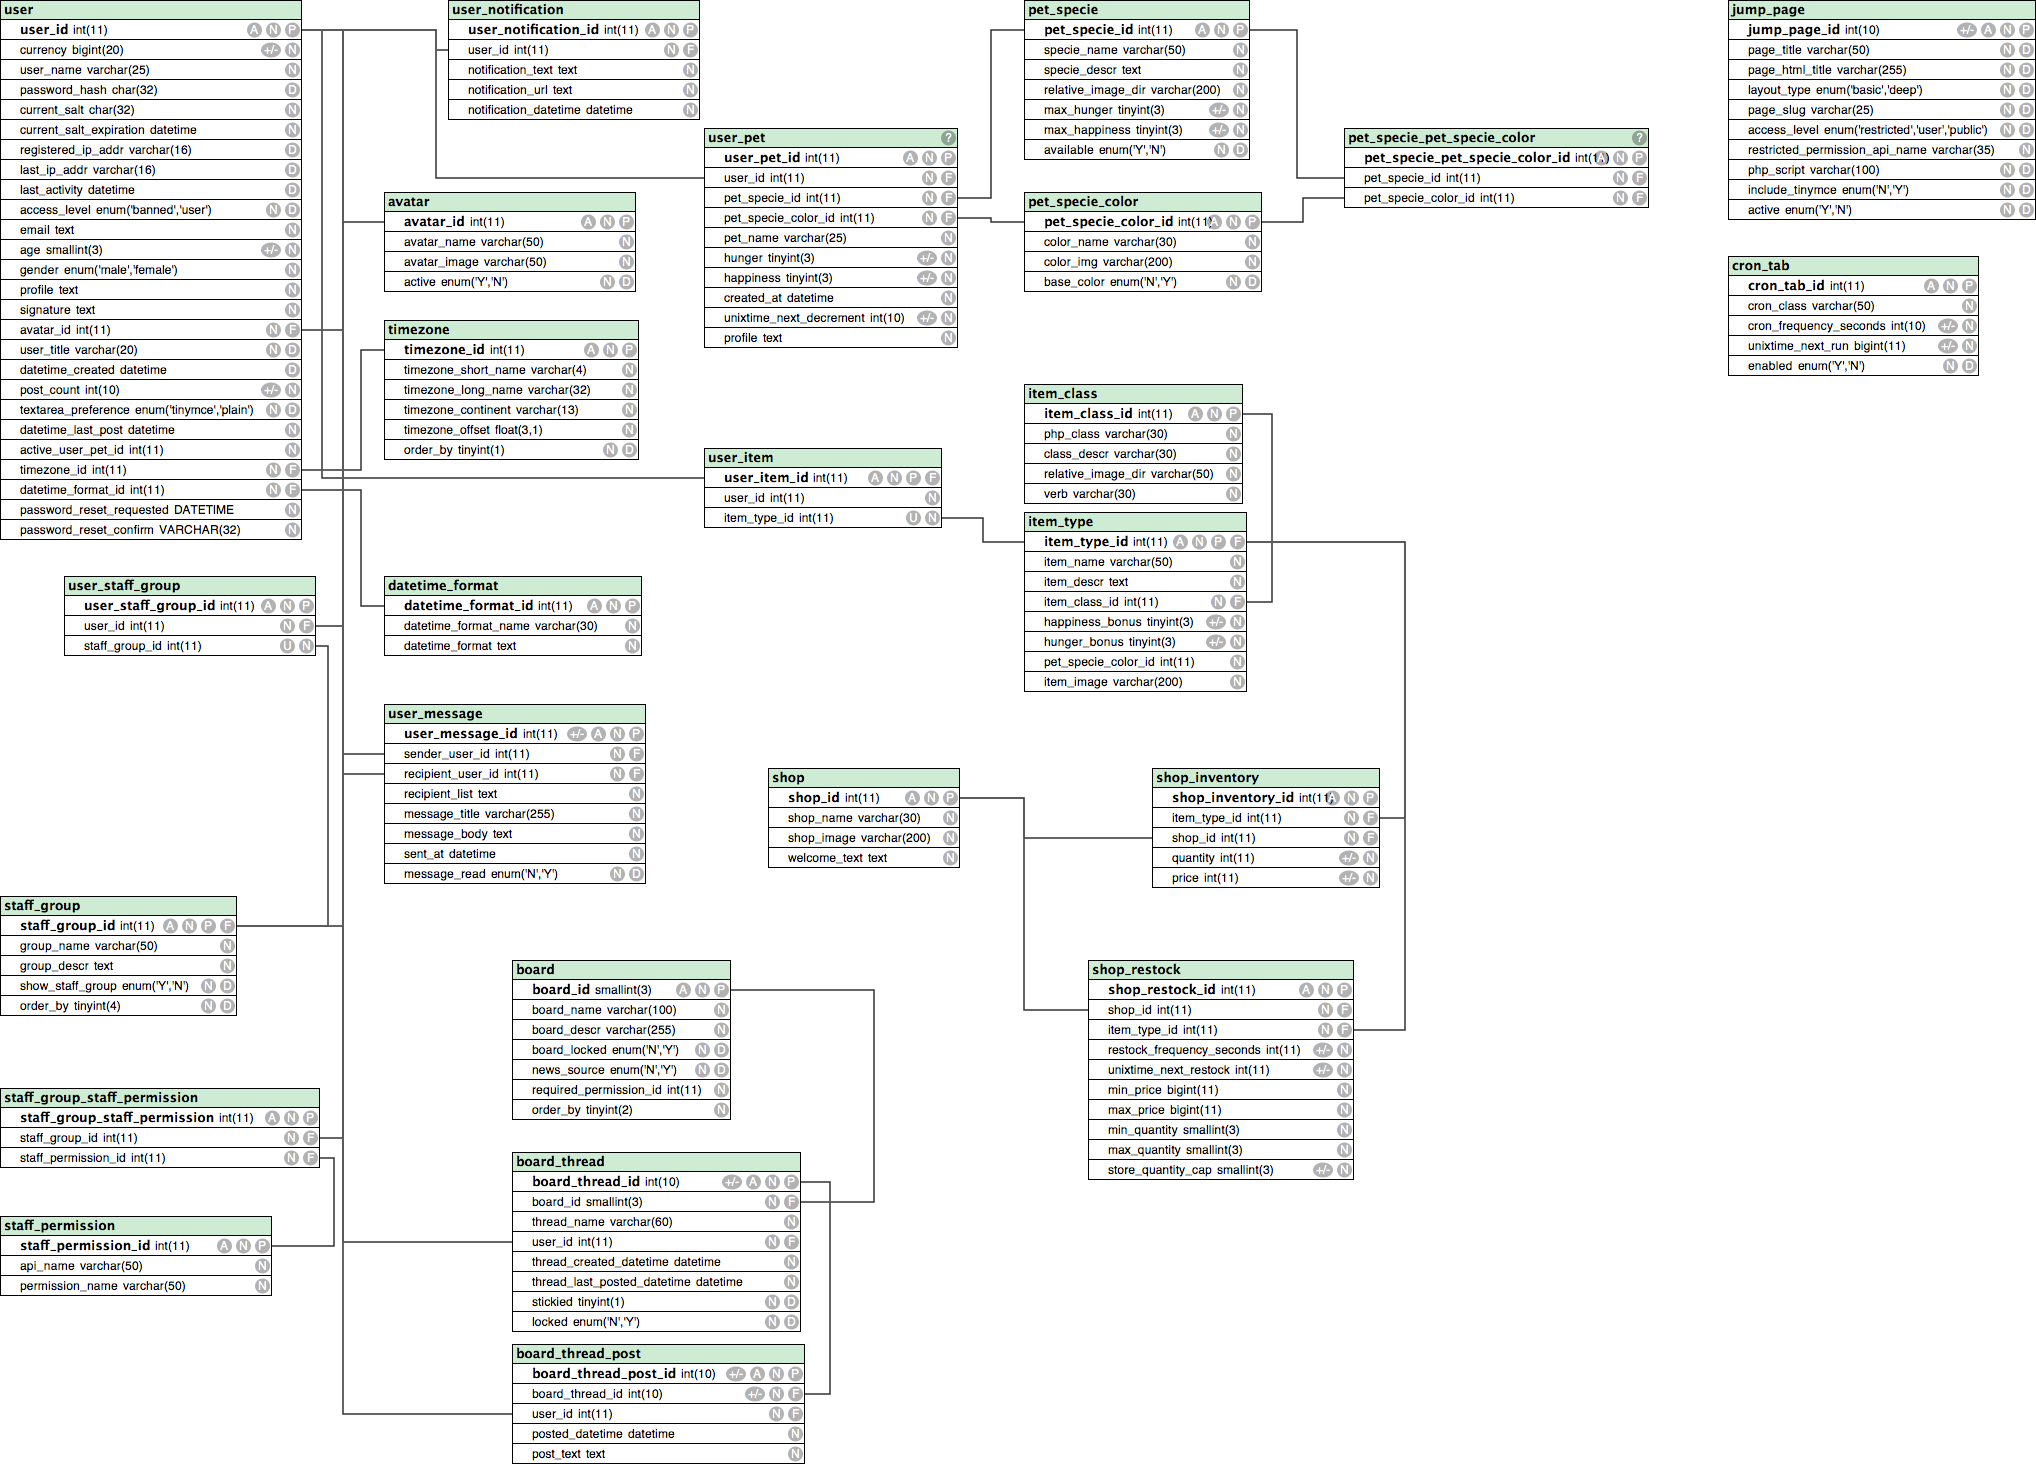
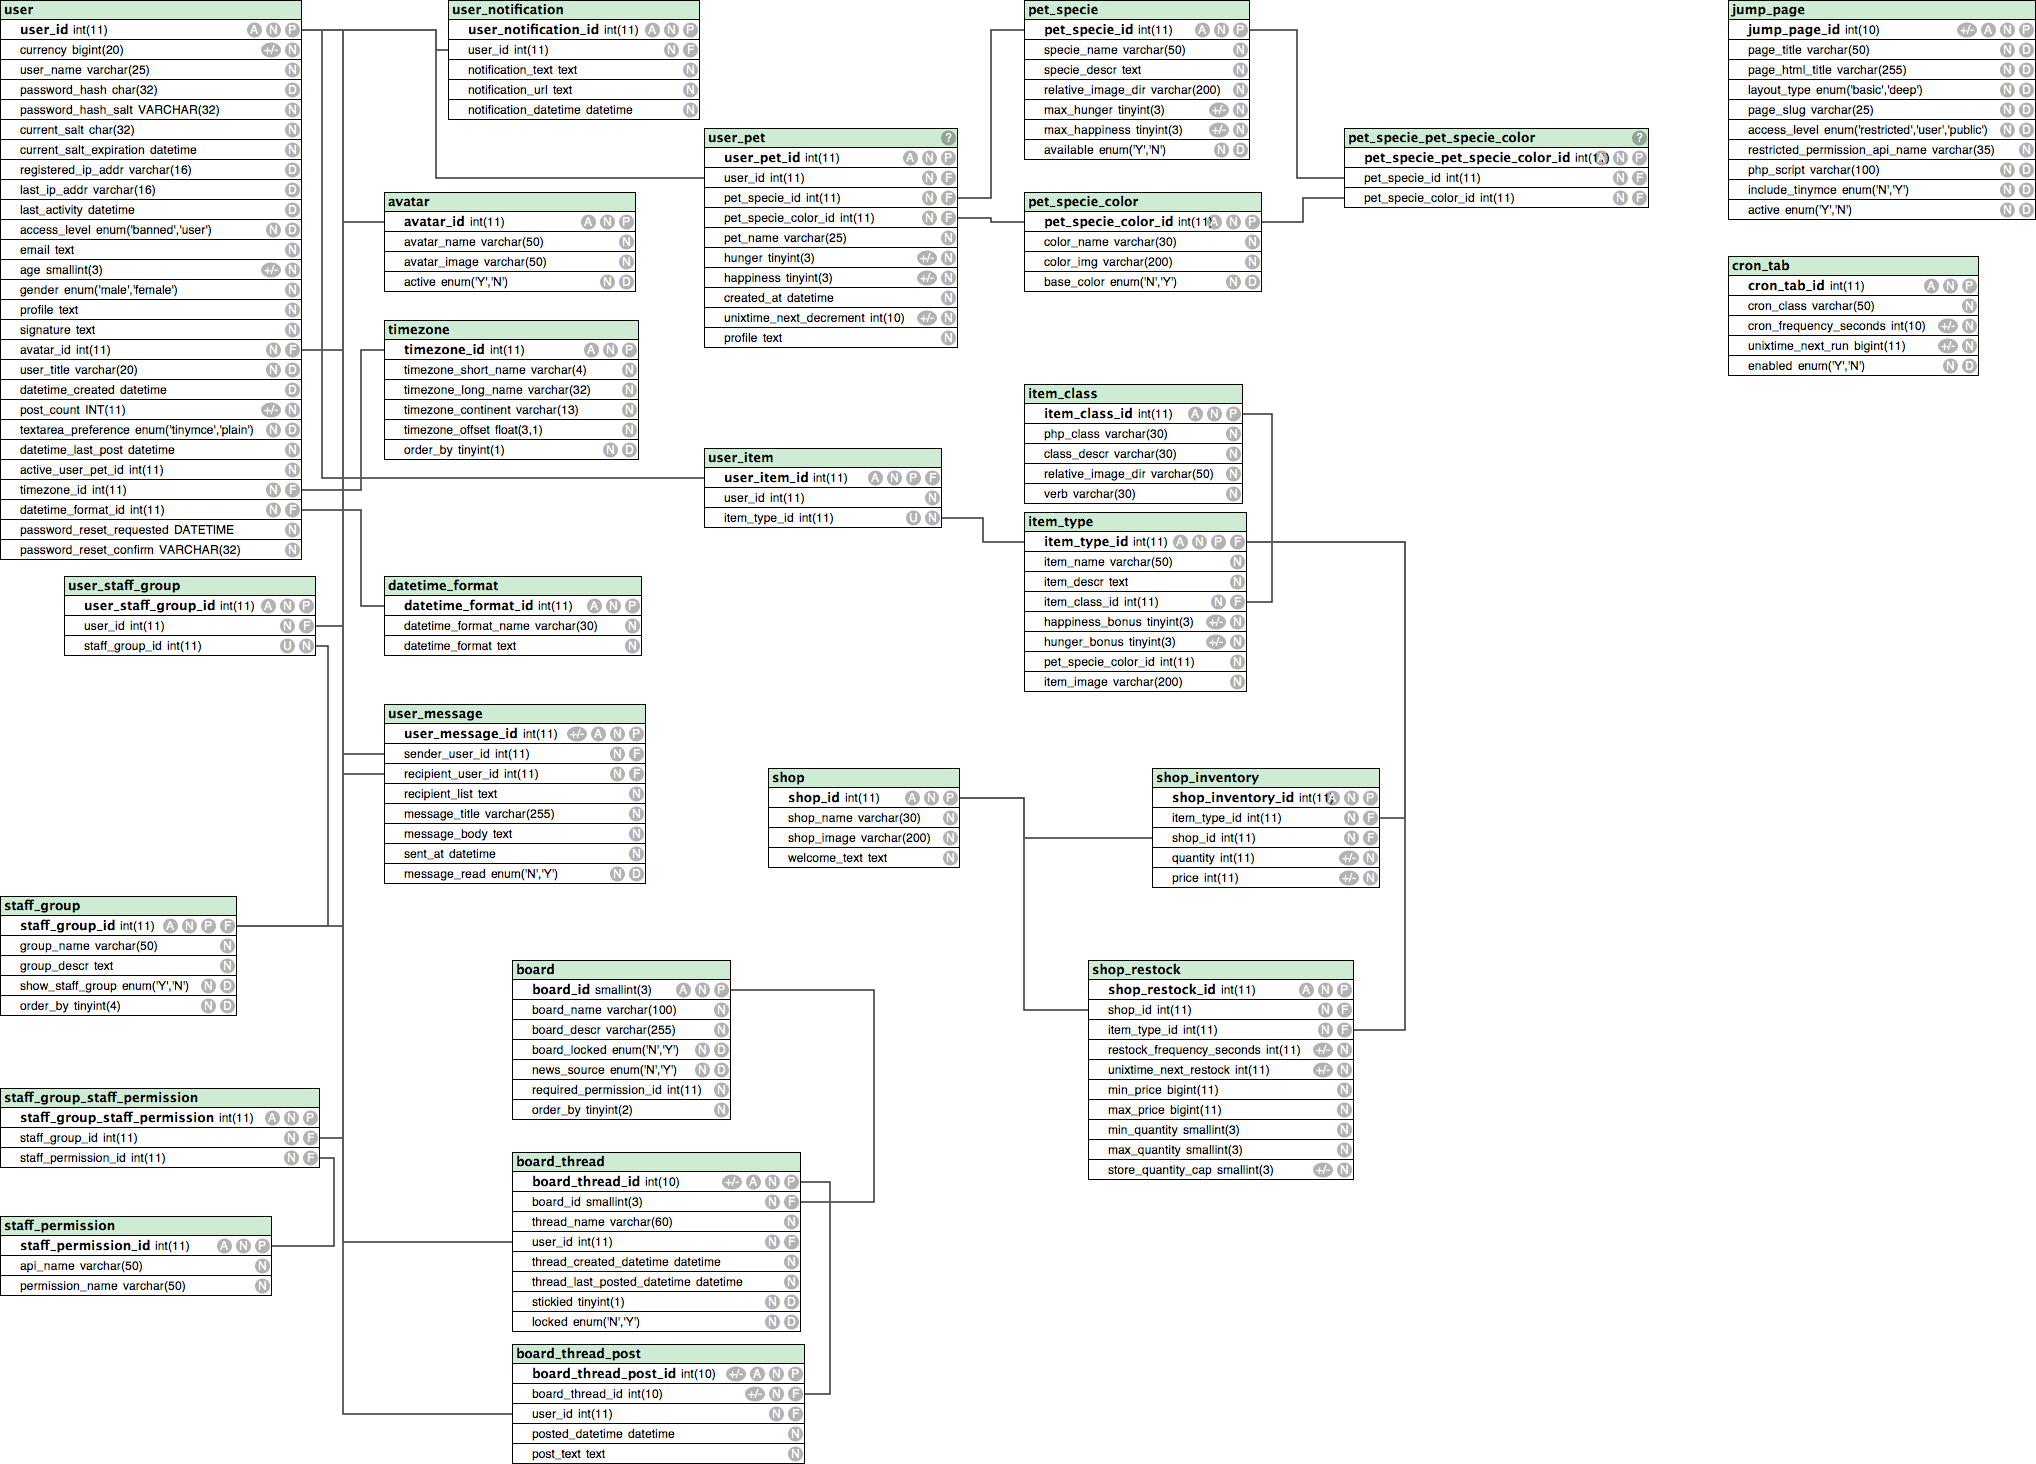
* Minor fixes

Changed region(s): [[0.0, 0.0615, 0.1547, 0.3996], [0.1238, 0.1537, 0.1547, 0.1844]]

diff --git a/includes/classes/user/user.class.php b/includes/classes/user/user.class.php
@@ -119,25 +119,21 @@ class User extends ActiveTable
 	 * The plaintext password is automagically converted to the
 	 * appropriate format and stored. The plaintext is discarded
 	 * when this function completes.
+     *
+     * The password hash is built using a random salt + the plaintext.
+     * The salt is the md5 of random data + the current time + a string 
+     * that (hopefully) has *at least* one symbol that wasn't factored 
+     * into a rainbow table.
      * 
      * @param string $password 
      * @return void
      **/
 	public function setPassword($password)
 	{
-        /*
-		* Doing this twice makes the passwords a mite harder to 
-		* brute-force. I do not labour under the idiotic delusion
-		* that this actually improves security; quite the contrary,
-		* my only goal is to keep some assclown from looking the
-		* chucksum up in a rainbow table and getting 80% of the users'
-        * plaintexts.
-        *
-        * Because you know 8/10 people chose 'kittokitto' as their password.
-        *
-        * :-(
-        */
-		$this->setPasswordHash(md5(md5($password)));
+     	$salt = md5(rand(10000000,90000000).time().'isumi*+!@#|=');
+        $this->setPasswordHashSalt($salt);
+
+        $this->setPasswordHash(md5(md5($password.$salt)));
 	} // end setPassword
     
     /**
@@ -148,7 +144,7 @@ class User extends ActiveTable
      **/
     public function checkPlaintextPassword($plaintext)
     {
-        $base = md5(md5($plaintext));
+        $base = md5(md5($plaintext.$this->getPasswordHashSalt()));
         
         if($base == $this->getPasswordHash())
         {

diff --git a/scripts/user/preferences.php b/scripts/user/preferences.php
@@ -128,7 +128,7 @@ switch($_REQUEST['state'])
             'email' => stripinput($_POST['user']['email']),
         );
 
-        if(md5(md5($PASSWORD['old'])) != $User->getPasswordHash())
+        if($User->checkPlaintextPassword($PASSWORD['old']) == false)
         {
             $ERRORS[] = 'The old password you specified is incorrect.';
         }
@@ -149,7 +149,11 @@ switch($_REQUEST['state'])
         }
         else
         {
-            $User->setPassword($PASSWORD['new']);
+            if($PASSWORD['new'] != null)
+            {
+                $User->setPassword($PASSWORD['new']);
+            }
+            
             $User->setEmail($PASSWORD['email']);
             $User->save();
 
